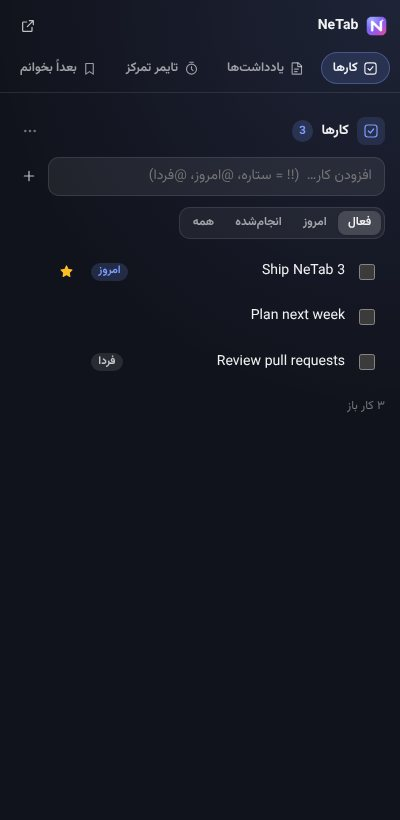
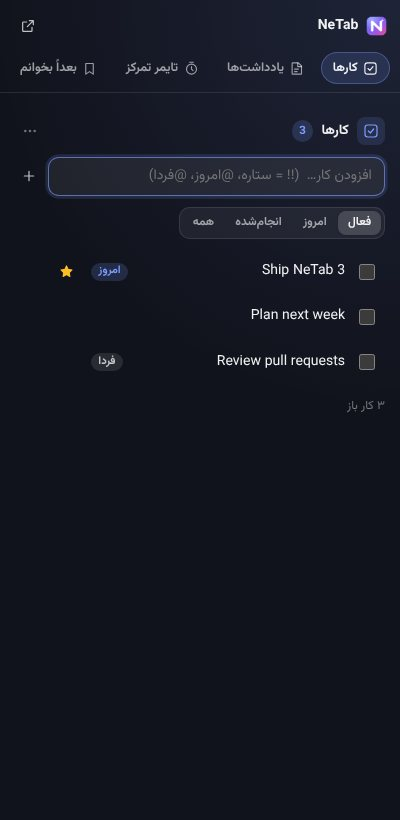
Fix dialog focus race, input clearing race and tile label overflow
- Dialogs no longer move focus to the first field if focus is already
  inside the dialog (typing right after opening went to the wrong field)
- Task and popup capture inputs clear before saving, so text typed
  during the save is kept
- Long quick-link names are truncated inside the tile
- e2e saves a screenshot on failure

Claude-Session: https://claude.ai/code/session_012W5wyiWn7Fssr1peAbu1Kw

Changed region(s): [[0.09, 0.1829, 0.99, 0.2439]]

diff --git a/src/newtab/widgets/todo.js b/src/newtab/widgets/todo.js
@@ -62,8 +62,10 @@ export default {
       onkeydown: async (e) => {
         if (e.key !== "Enter" || !input.value.trim()) return;
         e.preventDefault();
-        await addTask(input.value);
+        // Clear first so text typed while saving isn't wiped.
+        const text = input.value;
         input.value = "";
+        await addTask(text);
         if (filter === "done") {
           filter = "active";
           seg.setValue("active");
@@ -78,9 +80,10 @@ export default {
         title: t("todo.add"),
         onclick: async () => {
           if (!input.value.trim()) return input.focus();
-          await addTask(input.value);
+          const text = input.value;
           input.value = "";
           input.focus();
+          await addTask(text);
         },
       },
       icon("plus", 16),

diff --git a/src/lib/ui.js b/src/lib/ui.js
@@ -121,8 +121,11 @@ export function dialog({ title, body, buttons = [], wide = false, className = ""
     openDialogs += 1;
     requestAnimationFrame(() => {
       overlay.classList.add("shown");
-      const first = card.querySelector("[autofocus], input, textarea, select, .btn-primary");
-      first?.focus?.();
+      // Don't steal focus if the user (or a test) already moved into the dialog.
+      if (!card.contains(document.activeElement)) {
+        const first = card.querySelector("[autofocus], input, textarea, select, .btn-primary");
+        first?.focus?.();
+      }
       onOpen?.(card, finish);
     });
   });

diff --git a/src/newtab/newtab.css b/src/newtab/newtab.css
@@ -555,6 +555,13 @@ main {
   height: 1.75rem;
   border-radius: 6px;
 }
+.tile-text {
+  display: flex;
+  flex-direction: column;
+  align-items: center;
+  max-width: 100%;
+  min-width: 0;
+}
 .tile-label {
   max-width: 100%;
   font-size: 0.8rem;
@@ -612,9 +619,7 @@ main {
   height: 1.3rem;
 }
 .links-grid.list .tile-text {
-  min-width: 0;
-  display: flex;
-  flex-direction: column;
+  align-items: flex-start;
 }
 .links-grid.list .tile-note {
   display: block;

diff --git a/src/popup/popup.js b/src/popup/popup.js
@@ -259,8 +259,9 @@ async function main() {
   $("captureForm").addEventListener("submit", async (e) => {
     e.preventDefault();
     const input = $("captureInput");
-    await capture(input.value);
+    const text = input.value;
     input.value = "";
+    await capture(text);
   });
 
   focusState = Focus.normalizeFocusState(await get(KEYS.focusState, null));
